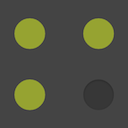
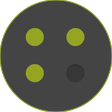
Added a readme and some promo images

diff --git a/Readme.md b/Readme.md
@@ -1,0 +1,11 @@
+## Binary Clock
+
+#### Making clocks harder to read, one bit at a time.
+
+This chrome extension shows a simple, elegant binary clock on new tabs.
+
+Options include: multiple themes, clock display mode and whether or not to display 'traditional' time.
+
+Impress your friends with how nerdy you are!
+
+You can preview it [here](http://jeffreypierce.github.io/binary-clock) or download the chrome extension [here](https://chrome.google.com/webstore/detail/binary-clock/glapajngabhpapccinednbdklpjahcgc)
